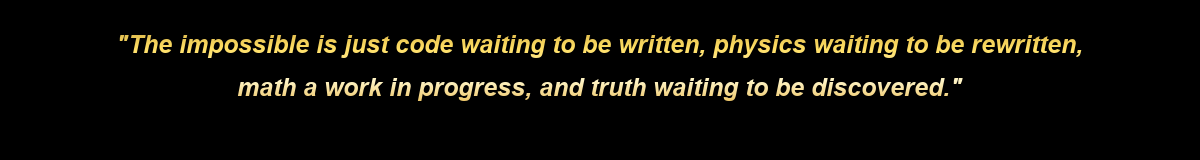
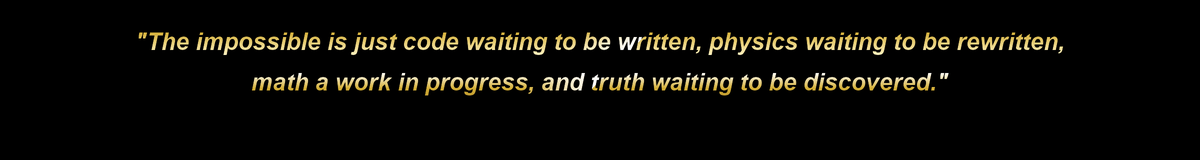
Update metallic gold quote image with 3D bevel and reflection sheen

Changed region(s): [[0.0925, 0.1875, 0.925, 0.375], [0.185, 0.4375, 0.8017, 0.625]]

diff --git a/generate_gold_quote.py b/generate_gold_quote.py
@@ -1,34 +1,34 @@
 import os
-from PIL import Image, ImageDraw, ImageFont
+from PIL import Image, ImageDraw, ImageFont, ImageFilter
 
-def generate_gold_quote():
-    # Text to render with exact line breaks and formatting
+def generate_metallic_gold_quote():
+    # Exact text and line breaks
     text_lines = [
         '"The impossible is just code waiting to be written, physics waiting to be rewritten,',
         'math a work in progress, and truth waiting to be discovered."'
     ]
     
-    # Image size (rectangular to fit perfectly on the page)
     width = 1200
     height = 160
     
-    # Create text mask (grayscale)
-    mask = Image.new("L", (width, height), 0)
+    # 1. Create high-res text mask for anti-aliasing (we render at 2x and scale down)
+    scale = 2
+    w_s, h_s = width * scale, height * scale
+    
+    mask = Image.new("L", (w_s, h_s), 0)
     draw = ImageDraw.Draw(mask)
     
-    # Find a good font
+    # Font selection
     font_paths = [
         "C:\\Windows\\Fonts\\arialbi.ttf", # Arial Bold Italic
         "C:\\Windows\\Fonts\\timesbi.ttf", # Times Bold Italic
-        "C:\\Windows\\Fonts\\georgiai.ttf",
         "arial.ttf"
     ]
-    
     font = None
     for path in font_paths:
         if os.path.exists(path):
             try:
-                font = ImageFont.truetype(path, 25)
+                font = ImageFont.truetype(path, 24 * scale)
                 break
             except:
                 pass
@@ -36,7 +36,7 @@ def generate_gold_quote():
         font = ImageFont.load_default()
         
     # Draw centered text on mask
-    y_offset = 30
+    y_offset = 28 * scale
     for line in text_lines:
         try:
             bbox = draw.textbbox((0, 0), line, font=font)
@@ -45,23 +45,44 @@ def generate_gold_quote():
         except AttributeError:
             line_w, line_h = draw.textsize(line, font=font)
             
-        x = (width - line_w) // 2
+        x = (w_s - line_w) // 2
         draw.text((x, y_offset), line, fill=255, font=font)
-        y_offset += line_h + 20
-        
-    # Create metallic gold gradient (horizontal stripe gradient to simulate shine)
-    gradient = Image.new("RGB", (width, height))
-    # Multi-stop gold gradient colors: dark gold -> light gold -> pale shine -> dark gold
+        y_offset += line_h + 18 * scale
+
+    # 2. Create 3D Bevel layers
+    # Convert mask to float for processing
+    mask_im = mask.copy()
+    
+    # Create highlight and shadow offsets to simulate 3D bevel
+    shift = 2
+    highlight_mask = Image.new("L", (w_s, h_s), 0)
+    shadow_mask = Image.new("L", (w_s, h_s), 0)
+    
+    # Paste shifted versions
+    highlight_mask.paste(mask_im, (-shift, -shift))
+    shadow_mask.paste(mask_im, (shift, shift))
+    
+    # Highlights are on the top-left edges
+    highlights = Image.new("L", (w_s, h_s), 0)
+    draw_hl = ImageDraw.Draw(highlights)
+    # highlights = mask_im AND NOT highlight_mask
+    # In PIL we can use ImageMath or simple composite
+    
+    # 3. Create Metallic Gold Reflection Gradient
+    gradient = Image.new("RGB", (w_s, h_s))
+    # Multi-stop metallic gold reflection map
     stops = [
-        (0.0, (160, 115, 35)),   # Dark Gold
-        (0.3, (255, 223, 100)),  # Bright Gold
-        (0.5, (255, 245, 200)),  # White-Gold Shine
-        (0.7, (230, 175, 55)),   # Medium Gold
-        (1.0, (140, 95, 25))     # Deep Gold/Bronze
+        (0.0, (138, 100, 33)),   # #8A6421 (Dark Gold)
+        (0.2, (212, 175, 55)),   # #D4AF37 (Metallic Gold)
+        (0.35, (255, 245, 200)), # #FFF5C8 (Soft Highlight)
+        (0.45, (255, 255, 255)), # #FFFFFF (Bright Chrome Shine)
+        (0.55, (212, 175, 55)),   # #D4AF37 (Metallic Gold)
+        (0.75, (138, 100, 33)),   # #8A6421 (Dark Gold)
+        (1.0, (218, 165, 32))    # #DAA520 (Goldenrod)
     ]
     
-    for y in range(height):
-        t = y / float(height)
+    for y in range(h_s):
+        t = y / float(h_s)
         c1, c2 = stops[0][1], stops[-1][1]
         t1, t2 = 0.0, 1.0
         for i in range(len(stops)-1):
@@ -74,17 +95,79 @@ def generate_gold_quote():
         g = int(c1[1] + (c2[1] - c1[1]) * factor)
         b = int(c1[2] + (c2[2] - c1[2]) * factor)
         
-        for x in range(width):
+        for x in range(w_s):
             gradient.putpixel((x, y), (r, g, b))
             
-    # Create final image (black background)
-    final_img = Image.new("RGB", (width, height), (0, 0, 0))
-    # Paste the gradient onto the black background using the text mask
-    final_img.paste(gradient, (0, 0), mask=mask)
+    # Add a diagonal reflection sheen
+    for y in range(h_s):
+        for x in range(w_s):
+            # Diagonal coordinate
+            diag = (x + y) / float(w_s + h_s)
+            if 0.45 <= diag <= 0.50:
+                # Add white highlight
+                r, g, b = gradient.getpixel((x, y))
+                blend = (diag - 0.45) / 0.05
+                r = int(r * (1 - blend) + 255 * blend)
+                g = int(g * (1 - blend) + 255 * blend)
+                b = int(b * (1 - blend) + 255 * blend)
+                gradient.putpixel((x, y), (r, g, b))
+
+    # 4. Render the 3D text
+    text_gold = Image.new("RGB", (w_s, h_s), (0, 0, 0))
+    text_gold.paste(gradient, (0, 0), mask=mask_im)
+    
+    # Apply Bevel Highlights (white/light gold on top-left)
+    # We can simulate this by drawing the text shifted top-left in white with low opacity
+    hl_color = (255, 253, 220) # Pale Gold
+    sd_color = (60, 40, 10)     # Dark Shadow
+    
+    # We create a 3D effect by layering a shadow and a highlight
+    shadow_img = Image.new("RGB", (w_s, h_s), (0, 0, 0))
+    draw_sd = ImageDraw.Draw(shadow_img)
+    
+    # Draw shadow
+    y_offset = 28 * scale
+    for line in text_lines:
+        try:
+            bbox = draw_sd.textbbox((0, 0), line, font=font)
+            line_w = bbox[2] - bbox[0]
+            line_h = bbox[3] - bbox[1]
+        except AttributeError:
+            line_w, line_h = draw_sd.textsize(line, font=font)
+        x = (w_s - line_w) // 2
+        draw_sd.text((x + 2, y_offset + 2), line, fill=sd_color, font=font)
+        y_offset += line_h + 18 * scale
+        
+    # Combine shadow with gold text
+    final_3d = Image.new("RGB", (w_s, h_s), (0, 0, 0))
+    final_3d.paste(shadow_img, (0, 0), mask=mask_im)
+    final_3d.paste(text_gold, (0, 0), mask=mask_im)
+    
+    # Overlay highlights on top-left edges
+    # We can do this by drawing a 1px offset text in white
+    hl_img = Image.new("RGB", (w_s, h_s), (0, 0, 0))
+    draw_hl = ImageDraw.Draw(hl_img)
+    y_offset = 28 * scale
+    for line in text_lines:
+        try:
+            bbox = draw_hl.textbbox((0, 0), line, font=font)
+            line_w = bbox[2] - bbox[0]
+            line_h = bbox[3] - bbox[1]
+        except AttributeError:
+            line_w, line_h = draw_hl.textsize(line, font=font)
+        x = (w_s - line_w) // 2
+        draw_hl.text((x - 1, y_offset - 1), line, fill=hl_color, font=font)
+        y_offset += line_h + 18 * scale
+        
+    # Blend highlight on top
+    final_3d.paste(hl_img, (0, 0), mask=highlights)
+    
+    # 5. Scale down with high-quality Lanczos resampling for perfect anti-aliasing
+    final_3d_rescaled = final_3d.resize((width, height), Image.Resampling.LANCZOS)
     
     # Save image
-    final_img.save("gold_quote.png")
-    print("Generated gold_quote.png successfully!")
+    final_3d_rescaled.save("gold_quote.png")
+    print("Generated 3D metallic gold_quote.png successfully!")
 
 if __name__ == "__main__":
-    generate_gold_quote()
+    generate_metallic_gold_quote()